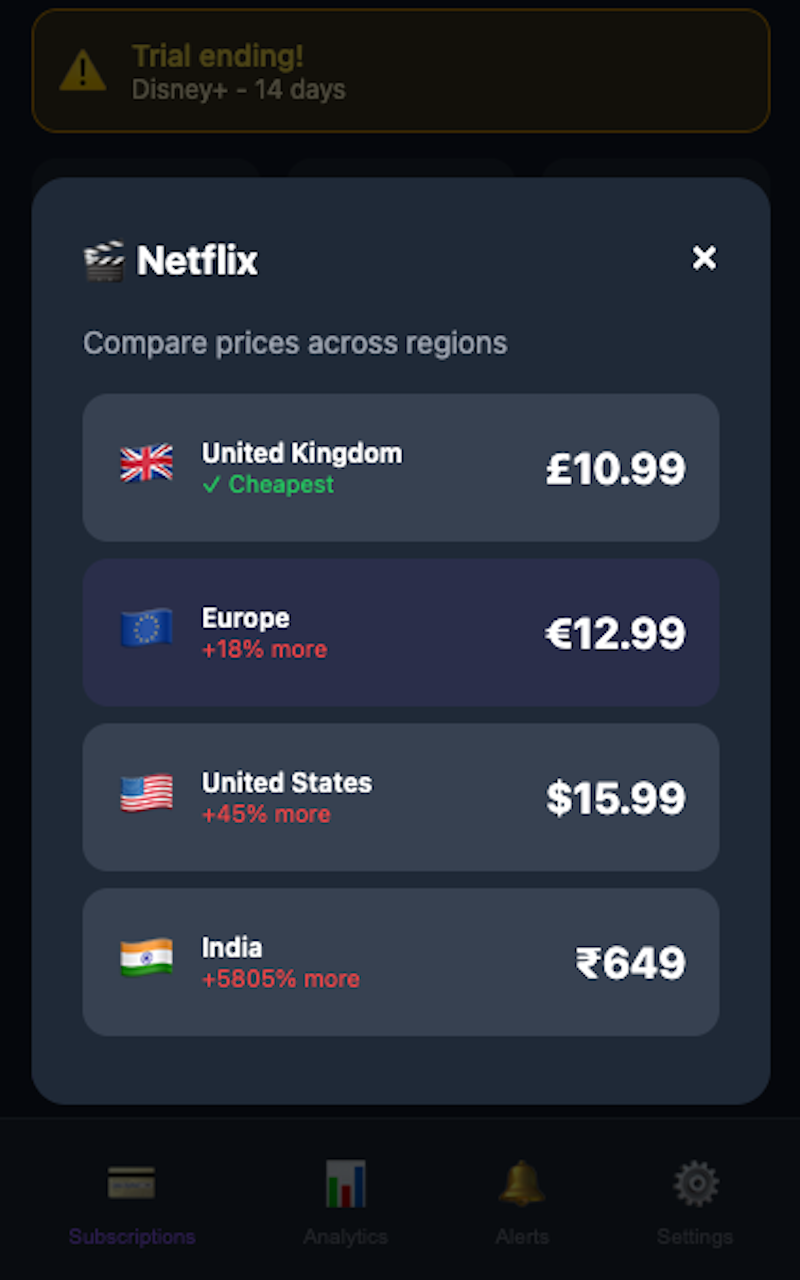
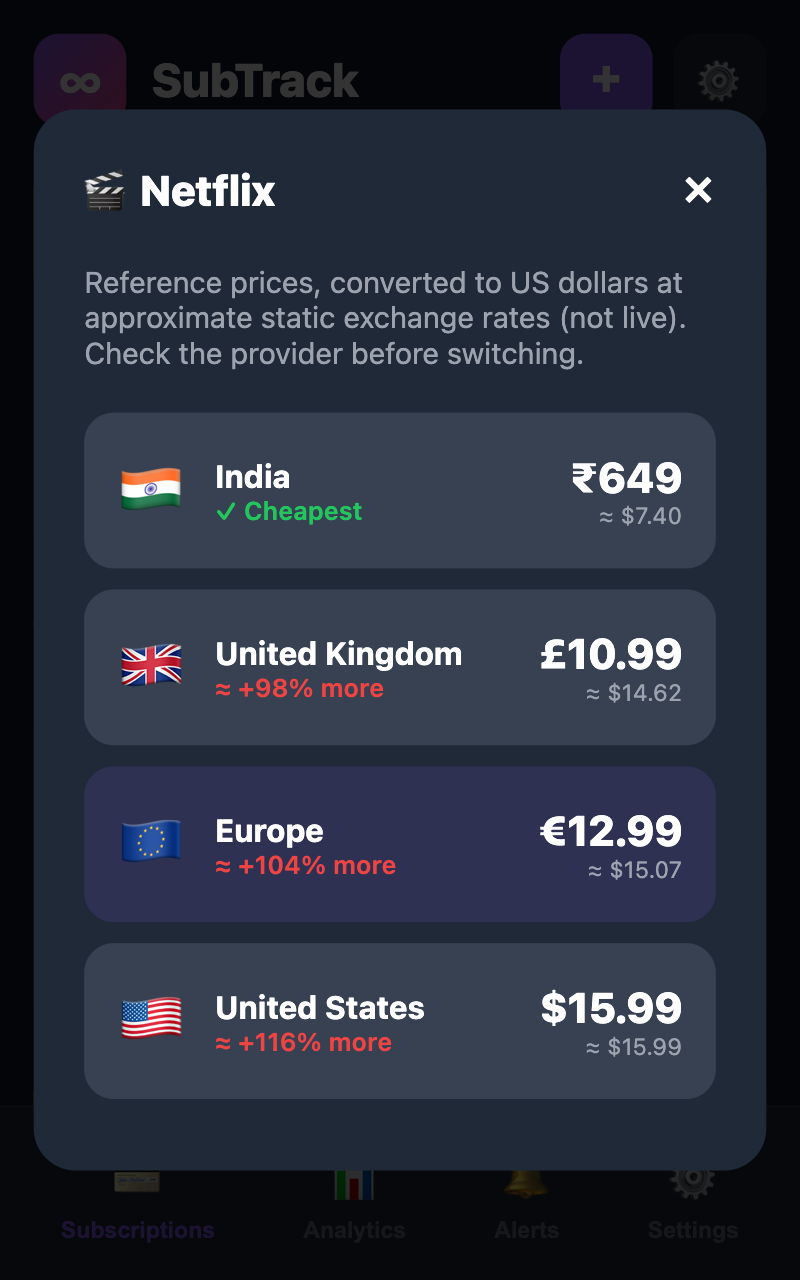
Re-shoot price comparison screenshot from 3.2.2 (currency conversion fixed)

diff --git a/index.html b/index.html
@@ -723,7 +723,7 @@
               <div class="screenshot-window-body">
                 <picture>
                   <source type="image/webp" srcset="screenshots/compare-400.webp 400w, screenshots/compare.webp 800w" sizes="(max-width: 768px) 45vw, (max-width: 1024px) 30vw, 220px">
-                  <img src="screenshots/compare.png" width="800" height="1280" loading="lazy" decoding="async" alt="Price comparison for Netflix showing plan prices in the UK, Europe, the US and India" class="screenshot-img">
+                  <img src="screenshots/compare.png" width="800" height="1280" loading="lazy" decoding="async" alt="Price comparison for Netflix across India, the UK, Europe and the US, converted to approximate US dollars" class="screenshot-img">
                 </picture>
               </div>
             </div>
